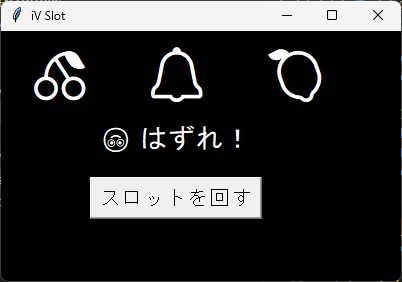
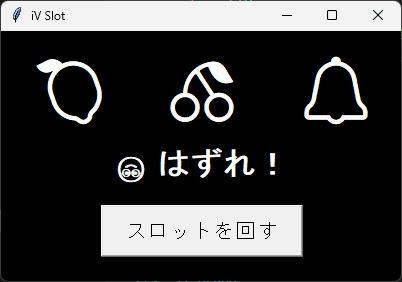
位置調整

diff --git a/slot_game.py b/slot_game.py
@@ -17,6 +17,10 @@ symbols = ["🍒", "🍋", "🔔", "⭐", "💎"]
 root = tk.Tk()
 root.title("iV Slot")
 root.geometry("400x250")
+
+if DEBUG:
+    root.geometry("400x300")
+
 root.configure(bg="black")
 
 # グローバル変数
@@ -28,14 +32,14 @@ lose_sound = pygame.mixer.Sound("sound/lose.mp3")
 spin_button = None
 debug_button = None
 
-# スロットリール表示
-slots = [tk.Label(root, text="❔", font=("Helvetica", 48), bg="black", fg="white") for _ in range(3)]
+# スロットリール
+slots = [tk.Label(root, text="❔", font=("Segoe UI Emoji", 48), bg="black", fg="white") for _ in range(3)]
 for i, label in enumerate(slots):
-    label.grid(row=0, column=i, padx=20)
+    label.grid(row=1, column=i, padx=20, pady=(10, 0))  # 行を1に、余白調整
 
-# 結果表示
-result_label = tk.Label(root, text="", font=("Helvetica", 20), bg="black", fg="white")
-result_label.grid(row=1, column=0, columnspan=3, pady=10)
+# 判定ラベル
+result_label = tk.Label(root, text="", font=("Helvetica", 24, "bold"), bg="black", fg="white")
+result_label.grid(row=2, column=0, columnspan=3, pady=(10, 20))
 
 # スロットを1リールずつ停止させるアニメーション
 def spin_individual_reels(force_win=False):
@@ -93,13 +97,13 @@ def main():
     global spin_button, debug_button
 
     # スタートボタン
-    spin_button = tk.Button(root, text="スロットを回す", font=("Helvetica", 16), command=start_spin)
-    spin_button.grid(row=2, column=0, columnspan=3, pady=10)
+    spin_button = tk.Button(root, text="スロットを回す", font=("Helvetica", 16), padx=16, pady=6, command=start_spin)
+    spin_button.grid(row=3, column=0, columnspan=3, pady=(0, 20))
 
     if DEBUG:
         # DEBUGボタン
-        debug_button = tk.Button(root, text="大当たりチェック", font=("Helvetica", 8), command=lambda: start_spin(True))
-        debug_button.grid(row=3, column=1, columnspan=3, pady=5)
+        debug_button = tk.Button(root, text="大当たりチェック", font=("Helvetica", 10), padx=10, pady=4, command=lambda: start_spin(True))
+        debug_button.grid(row=4, column=1, columnspan=1, pady=(0, 10))
 
     # 起動
     root.mainloop()
